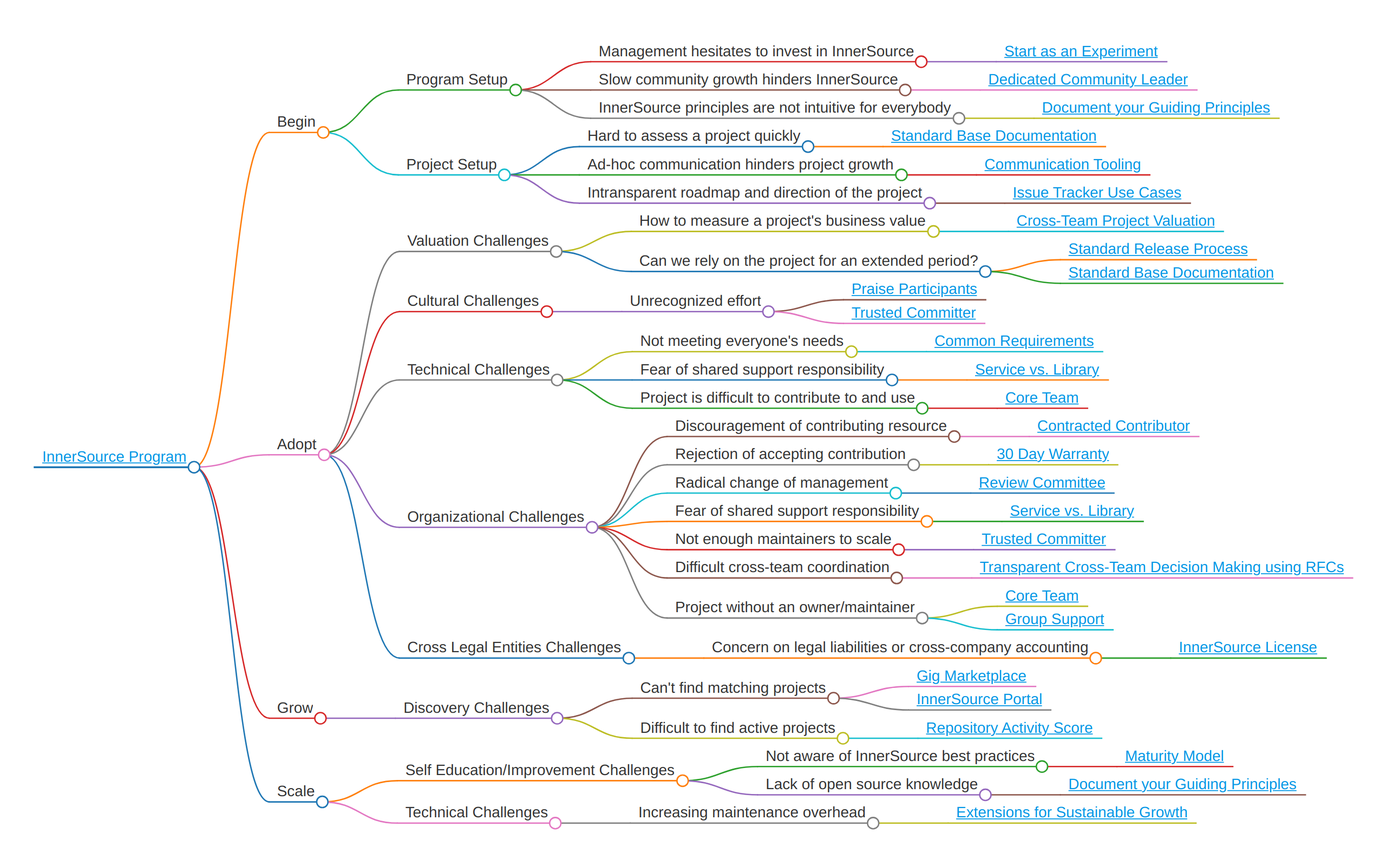
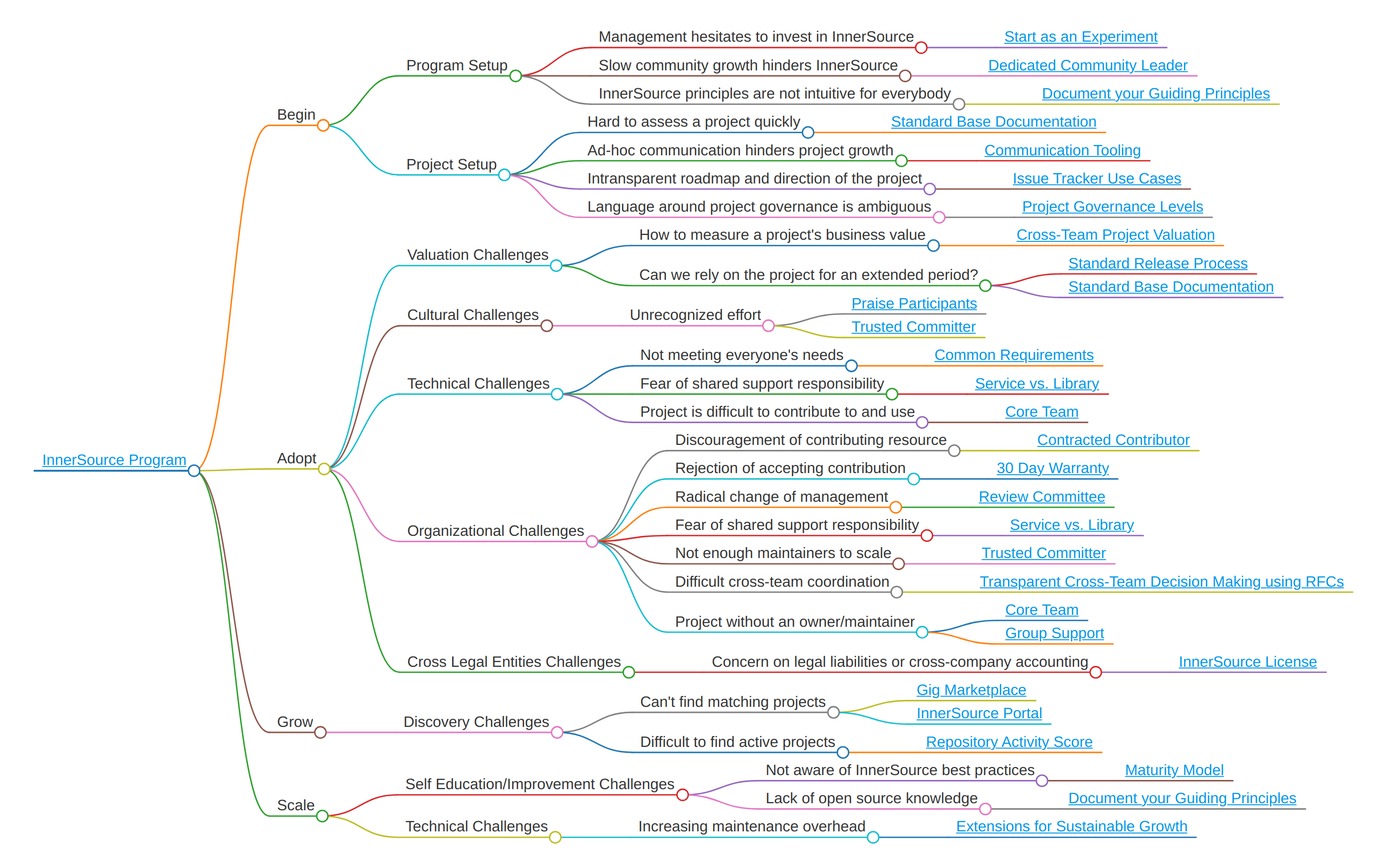
Promoting Governance Levels pattern to Structured (#765)
* Adding terminology to the open source analogies
* Splitting up the different rights that the people get in each of the operating models, to make them easier to compare.
* Adding alternative names for each level
* Adding new visual from Flutter
* Adding Alias section
* Adding Tom Sadler and Sebastian Spier to the authors
* Adding pattern to the mindmap (can be added in added in other areas as well)
* Adding Europace as a known instance
* Re-creating markmap and screenshot
* Use the term 'governance levels' consistently throughout the pattern. Clearly call out the aliases to this term.
* Moving the description of how this pattern relates to open source to the Rationale section. That also works better because the reader already knows about the governance level names by the time they read the Rationale (which is referring to these names as well).
* Adding 'Shared Write Access' as 4th governance level again. Adding images that support the explanation of the levels.
* Use 'host team' intead of 'core development team' to prevent confusion with Core team pattern
* Update Patlet

diff --git a/pattern-categorization/innersource-program-mind-map.html b/pattern-categorization/innersource-program-mind-map.html
@@ -27,6 +27,6 @@
                 (getOptions || markmap.deriveOptions)(jsonOptions),
                 root2
               );
-            })(() => window.markmap,null,{"content":"<a href=\"https://patterns.innersourcecommons.org/toc\">InnerSource Program</a>","children":[{"content":"Begin","children":[{"content":"Program Setup","children":[{"content":"Management hesitates to invest in InnerSource","children":[{"content":"<a href=\"https://patterns.innersourcecommons.org/p/start-as-experiment\">Start as an Experiment</a>","children":[],"payload":{"tag":"h5","lines":"8,9"}}],"payload":{"tag":"h4","lines":"6,7"}},{"content":"Slow community growth hinders InnerSource","children":[{"content":"<a href=\"https://patterns.innersourcecommons.org/p/dedicated-community-leader\">Dedicated Community Leader</a>","children":[],"payload":{"tag":"h5","lines":"12,13"}}],"payload":{"tag":"h4","lines":"10,11"}},{"content":"InnerSource principles are not intuitive for everybody","children":[{"content":"<a href=\"https://patterns.innersourcecommons.org/p/document-your-guiding-principles\">Document your Guiding Principles</a>","children":[],"payload":{"tag":"h5","lines":"16,17"}}],"payload":{"tag":"h4","lines":"14,15"}}],"payload":{"tag":"h3","lines":"4,5"}},{"content":"Project Setup","children":[{"content":"Hard to assess a project quickly","children":[{"content":"<a href=\"https://patterns.innersourcecommons.org/p/base-documentation\">Standard Base Documentation</a>","children":[],"payload":{"tag":"h5","lines":"22,23"}}],"payload":{"tag":"h4","lines":"20,21"}},{"content":"Ad-hoc communication hinders project growth","children":[{"content":"<a href=\"https://patterns.innersourcecommons.org/p/communication-tooling\">Communication Tooling</a>","children":[],"payload":{"tag":"h5","lines":"26,27"}}],"payload":{"tag":"h4","lines":"24,25"}},{"content":"Intransparent roadmap and direction of the project","children":[{"content":"<a href=\"https://patterns.innersourcecommons.org/p/issue-tracker\">Issue Tracker Use Cases</a>","children":[],"payload":{"tag":"h5","lines":"30,31"}}],"payload":{"tag":"h4","lines":"28,29"}}],"payload":{"tag":"h3","lines":"18,19"}}],"payload":{"tag":"h2","lines":"2,3"}},{"content":"Adopt","children":[{"content":"Valuation Challenges","children":[{"content":"How to measure a project's business value","children":[{"content":"<a href=\"https://patterns.innersourcecommons.org/p/crossteam-project-valuation\">Cross-Team Project Valuation</a>","children":[],"payload":{"tag":"h5","lines":"38,39"}}],"payload":{"tag":"h4","lines":"36,37"}},{"content":"Can we rely on the project for an extended period?","children":[{"content":"<a href=\"https://patterns.innersourcecommons.org/p/release-process\">Standard Release Process</a>","children":[],"payload":{"tag":"h5","lines":"42,43"}},{"content":"<a href=\"https://patterns.innersourcecommons.org/p/base-documentation\">Standard Base Documentation</a>","children":[],"payload":{"tag":"h5","lines":"44,45"}}],"payload":{"tag":"h4","lines":"40,41"}}],"payload":{"tag":"h3","lines":"34,35"}},{"content":"Cultural Challenges","children":[{"content":"Unrecognized effort","children":[{"content":"<a href=\"https://patterns.innersourcecommons.org/p/praise-participants\">Praise Participants</a>","children":[],"payload":{"tag":"h5","lines":"50,51"}},{"content":"<a href=\"https://patterns.innersourcecommons.org/p/trusted-committer\">Trusted Committer</a>","children":[],"payload":{"tag":"h5","lines":"52,53"}}],"payload":{"tag":"h4","lines":"48,49"}}],"payload":{"tag":"h3","lines":"46,47"}},{"content":"Technical Challenges","children":[{"content":"Not meeting everyone's needs","children":[{"content":"<a href=\"https://patterns.innersourcecommons.org/p/common-requirements\">Common Requirements</a>","children":[],"payload":{"tag":"h5","lines":"58,59"}}],"payload":{"tag":"h4","lines":"56,57"}},{"content":"Fear of shared support responsibility","children":[{"content":"<a href=\"https://patterns.innersourcecommons.org/p/service-vs-library\">Service vs. Library</a>","children":[],"payload":{"tag":"h5","lines":"62,63"}}],"payload":{"tag":"h4","lines":"60,61"}},{"content":"Project is difficult to contribute to and use","children":[{"content":"<a href=\"https://patterns.innersourcecommons.org/p/core-team\">Core Team</a>","children":[],"payload":{"tag":"h5","lines":"66,67"}}],"payload":{"tag":"h4","lines":"64,65"}}],"payload":{"tag":"h3","lines":"54,55"}},{"content":"Organizational Challenges","children":[{"content":"Discouragement of contributing resource","children":[{"content":"<a href=\"https://patterns.innersourcecommons.org/p/contracted-contributor\">Contracted Contributor</a>","children":[],"payload":{"tag":"h5","lines":"72,73"}}],"payload":{"tag":"h4","lines":"70,71"}},{"content":"Rejection of accepting contribution","children":[{"content":"<a href=\"https://patterns.innersourcecommons.org/p/30-day-warranty\">30 Day Warranty</a>","children":[],"payload":{"tag":"h5","lines":"76,77"}}],"payload":{"tag":"h4","lines":"74,75"}},{"content":"Radical change of management","children":[{"content":"<a href=\"https://patterns.innersourcecommons.org/p/review-committee\">Review Committee</a>","children":[],"payload":{"tag":"h5","lines":"80,81"}}],"payload":{"tag":"h4","lines":"78,79"}},{"content":"Fear of shared support responsibility","children":[{"content":"<a href=\"https://patterns.innersourcecommons.org/p/service-vs-library\">Service vs. Library</a>","children":[],"payload":{"tag":"h5","lines":"84,85"}}],"payload":{"tag":"h4","lines":"82,83"}},{"content":"Not enough maintainers to scale","children":[{"content":"<a href=\"https://patterns.innersourcecommons.org/p/trusted-committer\">Trusted Committer</a>","children":[],"payload":{"tag":"h5","lines":"88,89"}}],"payload":{"tag":"h4","lines":"86,87"}},{"content":"Difficult cross-team coordination","children":[{"content":"<a href=\"https://patterns.innersourcecommons.org/p/transparent-cross-team-decision-making-using-rfcs\">Transparent Cross-Team Decision Making using RFCs</a>","children":[],"payload":{"tag":"h5","lines":"92,93"}}],"payload":{"tag":"h4","lines":"90,91"}},{"content":"Project without an owner/maintainer","children":[{"content":"<a href=\"https://patterns.innersourcecommons.org/p/core-team\">Core Team</a>","children":[],"payload":{"tag":"h5","lines":"96,97"}},{"content":"<a href=\"https://patterns.innersourcecommons.org/p/group-support\">Group Support</a>","children":[],"payload":{"tag":"h5","lines":"98,99"}}],"payload":{"tag":"h4","lines":"94,95"}}],"payload":{"tag":"h3","lines":"68,69"}},{"content":"Cross Legal Entities Challenges","children":[{"content":"Concern on legal liabilities or cross-company accounting","children":[{"content":"<a href=\"https://patterns.innersourcecommons.org/p/innersource-license\">InnerSource License</a>","children":[],"payload":{"tag":"h5","lines":"104,105"}}],"payload":{"tag":"h4","lines":"102,103"}}],"payload":{"tag":"h3","lines":"100,101"}}],"payload":{"tag":"h2","lines":"32,33"}},{"content":"Grow","children":[{"content":"Discovery Challenges","children":[{"content":"Can't find matching projects","children":[{"content":"<a href=\"https://patterns.innersourcecommons.org/p/gig-marketplace\">Gig Marketplace</a>","children":[],"payload":{"tag":"h5","lines":"112,113"}},{"content":"<a href=\"https://patterns.innersourcecommons.org/p/innersource-portal\">InnerSource Portal</a>","children":[],"payload":{"tag":"h5","lines":"114,115"}}],"payload":{"tag":"h4","lines":"110,111"}},{"content":"Difficult to find active projects","children":[{"content":"<a href=\"https://patterns.innersourcecommons.org/p/repository-activity-score\">Repository Activity Score</a>","children":[],"payload":{"tag":"h5","lines":"118,119"}}],"payload":{"tag":"h4","lines":"116,117"}}],"payload":{"tag":"h3","lines":"108,109"}}],"payload":{"tag":"h2","lines":"106,107"}},{"content":"Scale","children":[{"content":"Self Education/Improvement Challenges","children":[{"content":"Not aware of InnerSource best practices","children":[{"content":"<a href=\"https://patterns.innersourcecommons.org/p/maturity-model\">Maturity Model</a>","children":[],"payload":{"tag":"h5","lines":"126,127"}}],"payload":{"tag":"h4","lines":"124,125"}},{"content":"Lack of open source knowledge","children":[{"content":"<a href=\"https://patterns.innersourcecommons.org/p/document-your-guiding-principles\">Document your Guiding Principles</a>","children":[],"payload":{"tag":"h5","lines":"130,131"}}],"payload":{"tag":"h4","lines":"128,129"}}],"payload":{"tag":"h3","lines":"122,123"}},{"content":"Technical Challenges","children":[{"content":"Increasing maintenance overhead","children":[{"content":"<a href=\"https://patterns.innersourcecommons.org/p/extensions-for-sustainable-growth\">Extensions for Sustainable Growth</a>","children":[],"payload":{"tag":"h5","lines":"136,137"}}],"payload":{"tag":"h4","lines":"134,135"}}],"payload":{"tag":"h3","lines":"132,133"}}],"payload":{"tag":"h2","lines":"120,121"}}],"payload":{"tag":"h1","lines":"0,1"}},null)</script>
+            })(() => window.markmap,null,{"content":"<a href=\"https://patterns.innersourcecommons.org/toc\">InnerSource Program</a>","children":[{"content":"Begin","children":[{"content":"Program Setup","children":[{"content":"Management hesitates to invest in InnerSource","children":[{"content":"<a href=\"https://patterns.innersourcecommons.org/p/start-as-experiment\">Start as an Experiment</a>","children":[],"payload":{"tag":"h5","lines":"8,9"}}],"payload":{"tag":"h4","lines":"6,7"}},{"content":"Slow community growth hinders InnerSource","children":[{"content":"<a href=\"https://patterns.innersourcecommons.org/p/dedicated-community-leader\">Dedicated Community Leader</a>","children":[],"payload":{"tag":"h5","lines":"12,13"}}],"payload":{"tag":"h4","lines":"10,11"}},{"content":"InnerSource principles are not intuitive for everybody","children":[{"content":"<a href=\"https://patterns.innersourcecommons.org/p/document-your-guiding-principles\">Document your Guiding Principles</a>","children":[],"payload":{"tag":"h5","lines":"16,17"}}],"payload":{"tag":"h4","lines":"14,15"}}],"payload":{"tag":"h3","lines":"4,5"}},{"content":"Project Setup","children":[{"content":"Hard to assess a project quickly","children":[{"content":"<a href=\"https://patterns.innersourcecommons.org/p/base-documentation\">Standard Base Documentation</a>","children":[],"payload":{"tag":"h5","lines":"22,23"}}],"payload":{"tag":"h4","lines":"20,21"}},{"content":"Ad-hoc communication hinders project growth","children":[{"content":"<a href=\"https://patterns.innersourcecommons.org/p/communication-tooling\">Communication Tooling</a>","children":[],"payload":{"tag":"h5","lines":"26,27"}}],"payload":{"tag":"h4","lines":"24,25"}},{"content":"Intransparent roadmap and direction of the project","children":[{"content":"<a href=\"https://patterns.innersourcecommons.org/p/issue-tracker\">Issue Tracker Use Cases</a>","children":[],"payload":{"tag":"h5","lines":"30,31"}}],"payload":{"tag":"h4","lines":"28,29"}},{"content":"Language around project governance is ambiguous","children":[{"content":"<a href=\"https://patterns.innersourcecommons.org/p/governance-levels\">Explicit Governance Levels</a>","children":[],"payload":{"tag":"h5","lines":"34,35"}}],"payload":{"tag":"h4","lines":"32,33"}}],"payload":{"tag":"h3","lines":"18,19"}}],"payload":{"tag":"h2","lines":"2,3"}},{"content":"Adopt","children":[{"content":"Valuation Challenges","children":[{"content":"How to measure a project's business value","children":[{"content":"<a href=\"https://patterns.innersourcecommons.org/p/crossteam-project-valuation\">Cross-Team Project Valuation</a>","children":[],"payload":{"tag":"h5","lines":"42,43"}}],"payload":{"tag":"h4","lines":"40,41"}},{"content":"Can we rely on the project for an extended period?","children":[{"content":"<a href=\"https://patterns.innersourcecommons.org/p/release-process\">Standard Release Process</a>","children":[],"payload":{"tag":"h5","lines":"46,47"}},{"content":"<a href=\"https://patterns.innersourcecommons.org/p/base-documentation\">Standard Base Documentation</a>","children":[],"payload":{"tag":"h5","lines":"48,49"}}],"payload":{"tag":"h4","lines":"44,45"}}],"payload":{"tag":"h3","lines":"38,39"}},{"content":"Cultural Challenges","children":[{"content":"Unrecognized effort","children":[{"content":"<a href=\"https://patterns.innersourcecommons.org/p/praise-participants\">Praise Participants</a>","children":[],"payload":{"tag":"h5","lines":"54,55"}},{"content":"<a href=\"https://patterns.innersourcecommons.org/p/trusted-committer\">Trusted Committer</a>","children":[],"payload":{"tag":"h5","lines":"56,57"}}],"payload":{"tag":"h4","lines":"52,53"}}],"payload":{"tag":"h3","lines":"50,51"}},{"content":"Technical Challenges","children":[{"content":"Not meeting everyone's needs","children":[{"content":"<a href=\"https://patterns.innersourcecommons.org/p/common-requirements\">Common Requirements</a>","children":[],"payload":{"tag":"h5","lines":"62,63"}}],"payload":{"tag":"h4","lines":"60,61"}},{"content":"Fear of shared support responsibility","children":[{"content":"<a href=\"https://patterns.innersourcecommons.org/p/service-vs-library\">Service vs. Library</a>","children":[],"payload":{"tag":"h5","lines":"66,67"}}],"payload":{"tag":"h4","lines":"64,65"}},{"content":"Project is difficult to contribute to and use","children":[{"content":"<a href=\"https://patterns.innersourcecommons.org/p/core-team\">Core Team</a>","children":[],"payload":{"tag":"h5","lines":"70,71"}}],"payload":{"tag":"h4","lines":"68,69"}}],"payload":{"tag":"h3","lines":"58,59"}},{"content":"Organizational Challenges","children":[{"content":"Discouragement of contributing resource","children":[{"content":"<a href=\"https://patterns.innersourcecommons.org/p/contracted-contributor\">Contracted Contributor</a>","children":[],"payload":{"tag":"h5","lines":"76,77"}}],"payload":{"tag":"h4","lines":"74,75"}},{"content":"Rejection of accepting contribution","children":[{"content":"<a href=\"https://patterns.innersourcecommons.org/p/30-day-warranty\">30 Day Warranty</a>","children":[],"payload":{"tag":"h5","lines":"80,81"}}],"payload":{"tag":"h4","lines":"78,79"}},{"content":"Radical change of management","children":[{"content":"<a href=\"https://patterns.innersourcecommons.org/p/review-committee\">Review Committee</a>","children":[],"payload":{"tag":"h5","lines":"84,85"}}],"payload":{"tag":"h4","lines":"82,83"}},{"content":"Fear of shared support responsibility","children":[{"content":"<a href=\"https://patterns.innersourcecommons.org/p/service-vs-library\">Service vs. Library</a>","children":[],"payload":{"tag":"h5","lines":"88,89"}}],"payload":{"tag":"h4","lines":"86,87"}},{"content":"Not enough maintainers to scale","children":[{"content":"<a href=\"https://patterns.innersourcecommons.org/p/trusted-committer\">Trusted Committer</a>","children":[],"payload":{"tag":"h5","lines":"92,93"}}],"payload":{"tag":"h4","lines":"90,91"}},{"content":"Difficult cross-team coordination","children":[{"content":"<a href=\"https://patterns.innersourcecommons.org/p/transparent-cross-team-decision-making-using-rfcs\">Transparent Cross-Team Decision Making using RFCs</a>","children":[],"payload":{"tag":"h5","lines":"96,97"}}],"payload":{"tag":"h4","lines":"94,95"}},{"content":"Level of influence for contributing teams is unclear","children":[{"content":"<a href=\"https://patterns.innersourcecommons.org/p/governance-levels\">Explicit Governance Levels</a>","children":[],"payload":{"tag":"h5","lines":"100,101"}}],"payload":{"tag":"h4","lines":"98,99"}},{"content":"Project without an owner/maintainer","children":[{"content":"<a href=\"https://patterns.innersourcecommons.org/p/core-team\">Core Team</a>","children":[],"payload":{"tag":"h5","lines":"104,105"}},{"content":"<a href=\"https://patterns.innersourcecommons.org/p/group-support\">Group Support</a>","children":[],"payload":{"tag":"h5","lines":"106,107"}}],"payload":{"tag":"h4","lines":"102,103"}}],"payload":{"tag":"h3","lines":"72,73"}},{"content":"Cross Legal Entities Challenges","children":[{"content":"Concern on legal liabilities or cross-company accounting","children":[{"content":"<a href=\"https://patterns.innersourcecommons.org/p/innersource-license\">InnerSource License</a>","children":[],"payload":{"tag":"h5","lines":"112,113"}}],"payload":{"tag":"h4","lines":"110,111"}}],"payload":{"tag":"h3","lines":"108,109"}}],"payload":{"tag":"h2","lines":"36,37"}},{"content":"Grow","children":[{"content":"Discovery Challenges","children":[{"content":"Can't find matching projects","children":[{"content":"<a href=\"https://patterns.innersourcecommons.org/p/gig-marketplace\">Gig Marketplace</a>","children":[],"payload":{"tag":"h5","lines":"120,121"}},{"content":"<a href=\"https://patterns.innersourcecommons.org/p/innersource-portal\">InnerSource Portal</a>","children":[],"payload":{"tag":"h5","lines":"122,123"}}],"payload":{"tag":"h4","lines":"118,119"}},{"content":"Difficult to find active projects","children":[{"content":"<a href=\"https://patterns.innersourcecommons.org/p/repository-activity-score\">Repository Activity Score</a>","children":[],"payload":{"tag":"h5","lines":"126,127"}}],"payload":{"tag":"h4","lines":"124,125"}}],"payload":{"tag":"h3","lines":"116,117"}}],"payload":{"tag":"h2","lines":"114,115"}},{"content":"Scale","children":[{"content":"Self Education/Improvement Challenges","children":[{"content":"Not aware of InnerSource best practices","children":[{"content":"<a href=\"https://patterns.innersourcecommons.org/p/maturity-model\">Maturity Model</a>","children":[],"payload":{"tag":"h5","lines":"134,135"}}],"payload":{"tag":"h4","lines":"132,133"}},{"content":"Lack of open source knowledge","children":[{"content":"<a href=\"https://patterns.innersourcecommons.org/p/document-your-guiding-principles\">Document your Guiding Principles</a>","children":[],"payload":{"tag":"h5","lines":"138,139"}}],"payload":{"tag":"h4","lines":"136,137"}}],"payload":{"tag":"h3","lines":"130,131"}},{"content":"Technical Challenges","children":[{"content":"Increasing maintenance overhead","children":[{"content":"<a href=\"https://patterns.innersourcecommons.org/p/extensions-for-sustainable-growth\">Extensions for Sustainable Growth</a>","children":[],"payload":{"tag":"h5","lines":"144,145"}}],"payload":{"tag":"h4","lines":"142,143"}}],"payload":{"tag":"h3","lines":"140,141"}}],"payload":{"tag":"h2","lines":"128,129"}}],"payload":{"tag":"h1","lines":"0,1"}},null)</script>
 </body>
 </html>

diff --git a/patterns/2-structured/governance-levels.md b/patterns/2-structured/governance-levels.md
@@ -1,0 +1,171 @@
+## Title
+
+Explicit Governance Levels
+
+## Patlet
+
+Different teams within an organization use InnerSource practices in varying ways, leading to confusion and inefficiencies due to inconsistent expectations of collaboration and contribution rights.
+Establish centrally documented governance levels that define the extent of influence contributing teams can have on a project, improving clarity for contributors and host teams alike.
+
+## Problem
+
+Several teams are using InnerSource practices.
+However the degree to which they welcome contributions and give equal collaboration rights to contributors differ.
+Despite these differences, all teams refer to their way of working as "InnerSource" without any additional qualifiers.
+
+The result is confusion and frustration when teams collaborate as the expectation of what InnerSource means in practice is different in each team.
+This confusion also affects strategy planning and decisions on future InnerSource intent as the term is too vague which leads to long discussions and time lost on clarifications.
+
+## Story
+
+### Example of Confusion
+
+For two projects, different InnerSource practices have been adopted.
+Project A has a shared ownership model with [Trusted Committers](../2-structured/trusted-committer.md) from multiple teams.
+Project B is fully owned by one team with contributions from other teams.
+
+New users of either project are regularly confused about the level of influence they can gain in the respective project.
+This leads to long discussions, escalations and time lost on clarifications.
+
+### Example of Delayed Decision
+
+Project C is currently closed source and used only by team 1.
+Team 2 want to use project C and the leadership of the two teams negotiates options which include InnerSource practices.
+Agreement takes longer than expected because the "InnerSource" term did not describe a target state that could be agreed without ambiguity, and the teams had to document bespoke options for their leadership to consider before a decision could be made.
+
+## Context
+
+- InnerSource concepts are established within an organization with multiple projects and teams adopting InnerSource.
+- Internal InnerSource practices are not prescribed in detail.
+- Teams/projects have the autonomy to optimize for their local circumstances.
+
+## Forces
+
+- Projects adopt different InnerSource patterns and practices to optimize for their context.
+- Users want clarity on the level of influence they can gain in an InnerSource project when deciding whether or how to use it.
+- Leaders want clarity on InnerSource project intentions to understand the expected cost and benefits.
+- Writing a detailed description of a set of InnerSource practices requires significant effort.
+
+## Solution
+
+Create centrally maintained documentation of the project governance levels that are used in your organization.
+The governance levels describe how much influence the host team of a project is willing to share with contributing teams.
+Or in other terms, the level of influence a contributing team can gain in the respective project.
+
+Note: Instead of "governance levels" we might also say "operating models", or "ownership models".
+We stick to the term "governance levels" throughout this pattern.
+Feel free to use whatever terms fits your organization best.
+
+To establish governance levels in your organization, we recommend these activities:
+
+1. Define your governance levels - **Goal**: Have a clear written description of the governance levels, that you can refer to as a reference.
+2. Promote your governance levels - **Goal**: The governance levels are known and understood throughout your organization.
+
+We will go into more detail on each of these activities in the following sections.
+
+### Define your Governance Levels
+
+The goal of this activity is to have a clear written description of the governance levels, that you can refer to as a reference.
+
+ - Document the governance levels that are commonly used in your organization.
+ - Document additional governance levels that you don't have yet, but that would benefit the cross-team collaboration in your organization.
+ - Give each of them a distinctive and descriptive name.
+ - Use specific projects as examples where helpful.
+ - Keep this documentation in a central place that you can easily reference that can be accessed by everybody.
+
+#### Commonly used Governance Levels
+
+The following governance levels are commonly used when practicing InnerSource.
+
+Each of these levels adds more influence/karma to the contributing team.
+However each step also requires more transparency and shared communication resources between both teams.
+
+1. **Bug Reports and Issues Welcome**:
+    - People outside the host team may use the code.
+    - They can submit feature requests and bug reports for things they would like to see changed.
+    - aka **Readable Source**, **Shared Source**
+2. **Contributions Welcome**:
+    - People outside the host team may use the code.
+    - They can make modifications and submit them to the host team for inclusion.
+    - aka **Guest Contributions**
+3. **Shared Write Access**:
+    - People outside of the host team can get write access to the project.
+    - The host team may give outside contributors additional leverage in the strategic direction of the project.
+    - Related Pattern: [Trusted Committer](../2-structured/trusted-committer.md)
+4. **Shared Ownership**:
+    - Members of different teams collaborate on the project as equal peers.
+    - Everyone has the ability to merge code.
+    - Everyone has an equal say on the project direction.
+    - Everyone has an equal say in who else to add to this group.
+    - aka **Distributed Ownership**, **Maintainers in Multiple Team**
+    - Related Pattern: [Group Support](../2-structured/group-support.md)
+
+<div>
+    <figure><img src="../../assets/img/governance-levels/1.png" alt="Bug Reports and Issues Welcome"><figcaption><p>Bug Reports and Issues Welcome</p></figcaption></figure>
+    <figure><img src="../../assets/img/governance-levels/2.png" alt="Contributions Welcome"><figcaption><p>Contributions Welcome</p></figcaption></figure>
+    <figure><img src="../../assets/img/governance-levels/3.png" alt="Shared Write Access"><figcaption><p>Shared Write Access</p></figcaption></figure>
+    <figure><img src="../../assets/img/governance-levels/4.png" alt="Shared Ownership"><figcaption><p>Shared Ownership</p></figcaption></figure>
+</div>
+
+### Promote your Governance Levels
+
+The goal of this activity is that the governance levels are known and understood throughout your organization, and that some of your higher profile InnerSource project start to adopt these governance levels explicitly.
+
+- Present your governance levels in existing knowledge sharing forums in your organization. Make sure to explain the why, not just the what!
+- Whenever talking about your governance levels, make sure to stick to he exact names/titles of your governance levels.
+- Use the names of your governance levels within project documentation and contributing guides (see also [Standard Base Documentation](../2-structured/base-documentation.md)).
+- Label projects with the governance levels in an [InnerSource Portal](../2-structured/innersource-portal.md), so that contributors can see at a glance what type of InnerSource collaboration the host team supports for the given project.
+- Create training material containing examples of projects in your organization. That makes it easier for people in your organization to related to these examples and understand what these governance levels mean and how they work.
+- Present the governance levels as a menu of adoption options when launching new InnerSource projects.
+
+## Resulting Context
+
+- Cross team communication occurs efficiently without confusion, using terms that are universally understood and centrally documented.
+- Organization leaders understand the nuances within practicing InnerSource and make better informed and more precise decisions that are easier to communicate.
+- Increased standardization of InnerSource practices within the organization as the named and documented building blocks are used by teams as a menu for adoption.
+- Teams can adopt InnerSource best practices in a step-by-step way which makes adoption easier and less intimidating.
+
+## Rationale
+
+Like "InnerSource", Open Source is also a broad term.
+
+There are projects on GitHub, published purely for the pleasure of the author with no intention of long term maintenance, not intention to fix bugs submitted by users. This would be the equivalent of "Bug Reports and Issues Welcome" - you can report the bug, but its on the owner to find the time to fix it. We call this **shared source**, which would not qualify as open source software (OSS) yet.
+
+There are projects where the roadmap is created in-house, hidden from public view. Where commit rights come and go with the contract of the employees of one company (e.g. MongoDB, Elastic, Tensorflow). Users are welcome to submit patches, they will even be mentored through. All development happens in the open, but control and strategy is never shared. This would be the equivalent of stage "Contributions Welcome". We call this **single vendor OSS**.
+
+There are projects that share write access, but do not share the power to decide who gets write access next. This applies to everyone who is only a committer at an Apache project.
+
+There are projects that are fully shared across multiple independent organizations (e.g. k8s, any Apache project) - those would be "Shared Ownership". We call this **vendor neutral OS**.
+
+The same levels make sense inside of organizations.
+
+## Known Instances
+
+- BBC - referenced in this talk: [Ownership in a DevOps and InnerSource environment - Tom Sadler (BBC)](https://www.youtube.com/watch?v=O8TK7QG3FjM)
+- Flutter Entertainment
+- Europace AG
+
+### Flutter Entertainment
+
+Flutter Entertainment define an [InnerSource Pyramid](https://innersource.flutter.com/how/pyramid/) to describe three different operating models: Readable Source, Guest Contributions and Maintainers in Multiple Teams. Each name is centrally documented. The use of these names is encouraged via repeated usage, direct training and categorization of each InnerSource project.
+
+![InnerSource Pyramid as used by Flutter Entertainment](../../assets/img/governance-levels/flutter-pyramid.png)
+
+## Status
+
+- Structured
+
+## Authors
+
+- Isabel Drost-Fromm
+- Rob Tuley
+- Tom Sadler
+- Sebastian Spier
+
+## Alias
+
+- Governance Framework (for InnerSource)
+- Defined Project Governance
+- Project Ownership Models
+- Explicitly Defined Governance
+- InnerSource Operating Models (seems a bit too broad, as readers might expect this to include CI/CD setups, code review tooling, and the like)

diff --git a/README.md b/README.md
@@ -58,6 +58,7 @@ Our mission
 * [Extensions for Sustainable Growth](/patterns/2-structured/extensions-for-sustainable-growth.md) - *An InnerSource project is receiving too many contributions, making maintenance difficult. By offering an extension mechanism outside of the core project, the maintainers enable scaling of project capabilities with minimal cost and maintenance overhead.*
 * [Standard Release Process](patterns/2-structured/release-process.md) - *Teams may hesitate to adopt an InnerSource project if they are unsure of its maturity. To address this, consistent release notes and published artifacts are crucial. These practices showcase a strong dedication to the project, instilling confidence and assuring users of ongoing commitment to sustainable and well-managed software.*
 * [Group Support](patterns/2-structured/group-support.md) - *What happens if a team or individual no longer supports an InnerSource project? Keep the project alive by forming a group of interested individuals.*
+* [Explicit Governance Levels](patterns/2-structured/governance-levels.md) - *Different teams within an organization use InnerSource practices in varying ways, leading to confusion and inefficiencies due to inconsistent expectations of collaboration and contribution rights. Establish centrally documented governance levels that define the extent of influence contributing teams can have on a project, improving clarity for contributors and host teams alike.*
 
 ### Maturity Level 1: Initial
 
@@ -71,7 +72,6 @@ Our mission
 * [Include Product Owners](patterns/1-initial/include-product-owners.md) - *Engaging and educating Product Owners about InnerSource can help them modify their actions (e.g., in the space of KPIs) to help InnerSource collaboration work better.*
 * [Assisted Compliance](patterns/1-initial/assisted_compliance.md) - *Helping repo owners be compliant by writing their CONTRIBUTING.md for them as a pull request.*
 * [Open Source Trumps InnerSource](patterns/1-initial/open-source-trumps-innersource.md) - *Developers disregard InnerSource projects because they consider open source projects to be superior. Introducing a required evaluation of InnerSource projects before choosing an open source project increases the likelihood of the InnerSource projects to be adopted.*
-* [Transparent Governance Levels](patterns/1-initial/governance-levels.md) - *There are projects in multiple stages of InnerSource adoption. Contributors get confused when working with projects that are at different stages.*
 * [Governance Level Guided Project Setup](/patterns/1-initial/governance-based-project-setup.md) - *Before publishing their first InnerSource project, a team wants to choose an appropriate Governance Level but is unsure about the impact of the different levels on their daily doing. A dedicated list of resources (best practices, recommended patterns, target maturity levels) provides specific guidance to the team and helps them to make an educated decision.*
 * [Contained InnerSource](patterns/1-initial/contained-innersource.md) - *Apply InnerSource methods to facilitate collaboration in a cross-divisional project but don't invest in soliciting contributions from outside of that project.*
 * [Good First Project](patterns/1-initial/good-first-project.md) - *An InnerSource program has been launched at an organization, and to get off to a successful start it requires some good first projects that lend themselves to InnerSource-style development. Assessing the InnerSource-readiness (fitness) of the candidate projects can help in selecting projects that have the potential to help demonstrate the power of InnerSource.*

diff --git a/book/en/toc.md b/book/en/toc.md
@@ -27,6 +27,7 @@ Instead edit toc_template.md
 * [Cross-Team Project Valuation](../../patterns/2-structured/crossteam-project-valuation.md) - It's hard to sell the value of cross-team InnerSource projects that don't provide a direct impact on company revenue. Here's a data-driven way to represent your project that both articulates its value and amplifies it.
 * [Dedicated Community Leader](../../patterns/2-structured/dedicated-community-leader.md) - Select people with both communications and technical skills to lead the communities to ensure success in starting an InnerSource initiative.
 * [Document your Guiding Principles](../../patterns/2-structured/document-your-guiding-principles.md) - The usual InnerSource explanation of "applying open source best practices inside an organization" does not work well with people lacking an open source background. As a remedy the most important principles of InnerSource get documented and published widely.
+* [Explicit Governance Levels](../../patterns/2-structured/governance-levels.md) - Different teams within an organization use InnerSource practices in varying ways, leading to confusion and inefficiencies due to inconsistent expectations of collaboration and contribution rights. Establish centrally documented governance levels that define the extent of influence contributing teams can have on a project, improving clarity for contributors and host teams alike.
 * [Extensions for Sustainable Growth](../../patterns/2-structured/extensions-for-sustainable-growth.md) - An InnerSource project is receiving too many contributions, making maintenance difficult. By offering an extension mechanism outside of the core project, the maintainers enable scaling of project capabilities with minimal cost and maintenance overhead.
 * [Gig Marketplace](../../patterns/2-structured/gig-marketplace.md) - Establish a marketplace by creating an intranet website that lists specific InnerSource project needs as "Gigs" with explicit time and skill requirements.  This will enable managers to better understand their employee’s time commitment and professional benefits thereby increasing the likelihood of garnering approval to make InnerSource contributions.
 * [Group Support](../../patterns/2-structured/group-support.md) - What happens if a team or individual no longer supports an InnerSource project? Keep the project alive by forming a group of interested individuals.

diff --git a/pattern-categorization/innersource-program-mind-map.md b/pattern-categorization/innersource-program-mind-map.md
@@ -30,6 +30,10 @@
 
 ##### [Issue Tracker Use Cases](https://patterns.innersourcecommons.org/p/issue-tracker)
 
+#### Language around project governance is ambiguous
+
+##### [Explicit Governance Levels](https://patterns.innersourcecommons.org/p/governance-levels)
+
 ## Adopt
 
 ### Valuation Challenges
@@ -91,6 +95,10 @@
 #### Difficult cross-team coordination
 
 ##### [Transparent Cross-Team Decision Making using RFCs](https://patterns.innersourcecommons.org/p/transparent-cross-team-decision-making-using-rfcs)
+
+#### Level of influence for contributing teams is unclear
+
+##### [Explicit Governance Levels](https://patterns.innersourcecommons.org/p/governance-levels)
 
 #### Project without an owner/maintainer
 
